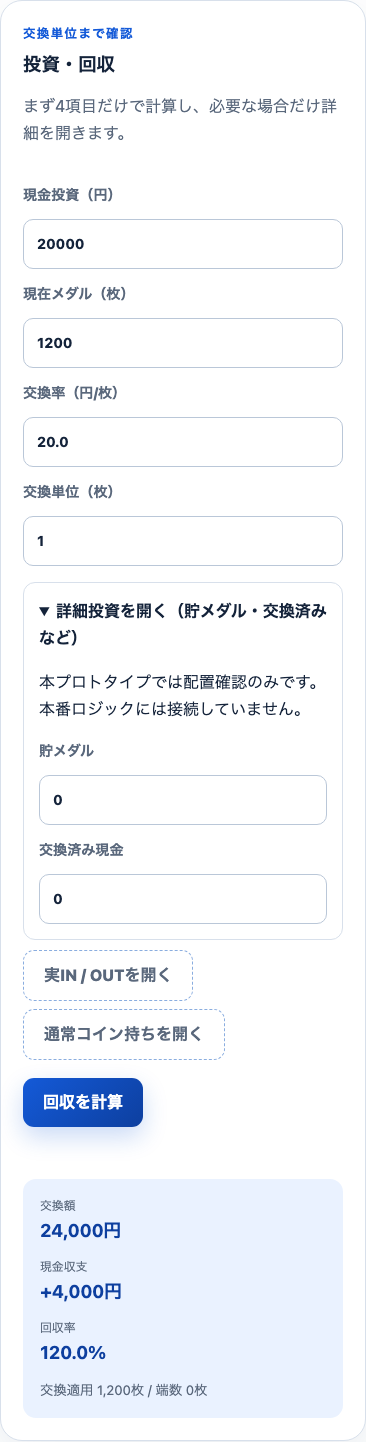
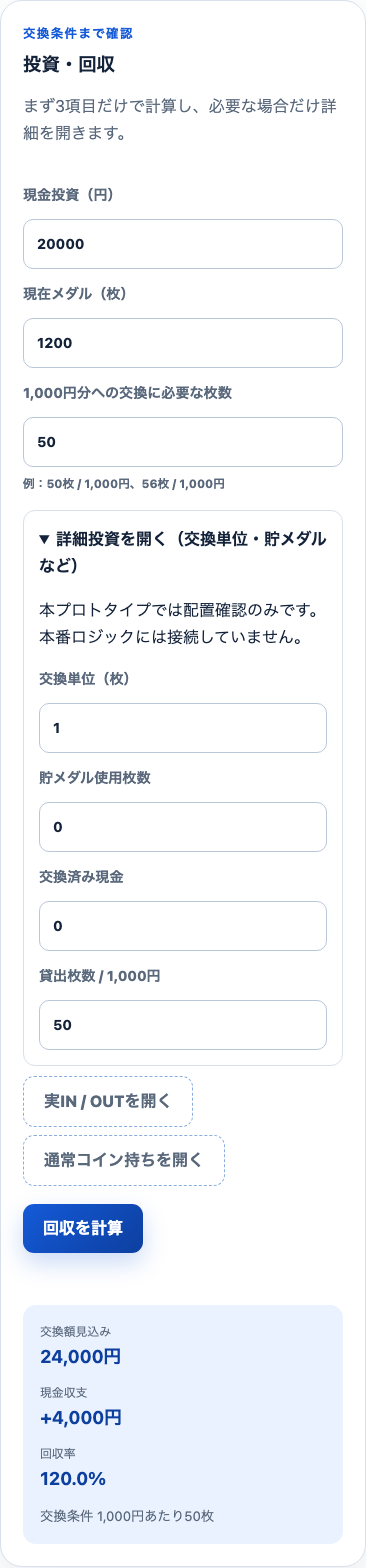
docs: align slot analysis input units and domain metadata

diff --git a/prototypes/slot-analysis-v2/index.html b/prototypes/slot-analysis-v2/index.html
@@ -165,14 +165,14 @@
         </section>
 
         <section class="detail-panel" id="investment-panel" hidden aria-labelledby="investment-title">
-          <div class="detail-copy"><p class="section-kicker">交換単位まで確認</p><h3 id="investment-title" tabindex="-1">投資・回収</h3><p>まず4項目だけで計算し、必要な場合だけ詳細を開きます。</p></div>
+          <div class="detail-copy"><p class="section-kicker">交換条件まで確認</p><h3 id="investment-title" tabindex="-1">投資・回収</h3><p>まず3項目だけで計算し、必要な場合だけ詳細を開きます。</p></div>
           <form id="investment-form" class="detail-form">
-            <div class="compact-grid"><label for="cash-invested">現金投資（円）<input id="cash-invested" inputmode="numeric" value="20000" /></label><label for="current-medals">現在メダル（枚）<input id="current-medals" inputmode="numeric" value="1200" /></label><label for="exchange-rate">交換率（円/枚）<input id="exchange-rate" inputmode="decimal" value="20.0" /></label><label for="exchange-unit">交換単位（枚）<input id="exchange-unit" inputmode="numeric" value="1" /></label></div>
-            <details class="advanced-inputs"><summary>詳細投資を開く（貯メダル・交換済みなど）</summary><p>本プロトタイプでは配置確認のみです。本番ロジックには接続していません。</p><div class="compact-grid"><label>貯メダル<input inputmode="numeric" value="0" /></label><label>交換済み現金<input inputmode="numeric" value="0" /></label></div></details>
+            <div class="compact-grid"><label for="cash-invested">現金投資（円）<input id="cash-invested" inputmode="numeric" value="20000" /></label><label for="current-medals">現在メダル（枚）<input id="current-medals" inputmode="numeric" value="1200" /></label><label for="exchange-medals-per-1000-yen">1,000円分への交換に必要な枚数<input id="exchange-medals-per-1000-yen" inputmode="decimal" value="50" /><small>例：50枚 / 1,000円、56枚 / 1,000円</small></label></div>
+            <details class="advanced-inputs"><summary>詳細投資を開く（交換単位・貯メダルなど）</summary><p>本プロトタイプでは配置確認のみです。本番ロジックには接続していません。</p><div class="compact-grid"><label>交換単位（枚）<input inputmode="numeric" value="1" /></label><label>貯メダル使用枚数<input inputmode="numeric" value="0" /></label><label>交換済み現金<input inputmode="numeric" value="0" /></label><label>貸出枚数 / 1,000円<input inputmode="decimal" value="50" /></label></div></details>
             <div class="legacy-routes" aria-label="既存の詳細計算"><button class="button text-button prototype-only" type="button">実IN / OUTを開く</button><button class="button text-button prototype-only" type="button">通常コイン持ちを開く</button></div>
             <button class="button primary" type="submit">回収を計算</button><p class="inline-error" id="investment-error"></p>
           </form>
-          <div class="detail-result" id="investment-result" hidden><span>交換額 <strong id="exchange-value">—</strong></span><span>現金収支 <strong id="cash-balance">—</strong></span><span>回収率 <strong id="recovery-rate">—</strong></span><small id="remainder-copy"></small></div>
+          <div class="detail-result" id="investment-result" hidden><span>交換額見込み <strong id="exchange-value">—</strong></span><span>現金収支 <strong id="cash-balance">—</strong></span><span>回収率 <strong id="recovery-rate">—</strong></span><small id="exchange-condition-copy"></small></div>
         </section>
       </section>
 

diff --git a/prototypes/slot-analysis-v2/prototype.js b/prototypes/slot-analysis-v2/prototype.js
@@ -379,33 +379,28 @@
     event.preventDefault();
     const cash = parseInteger($('#cash-invested').value);
     const medals = parseInteger($('#current-medals').value);
-    const rate = parseDecimal($('#exchange-rate').value);
-    const unit = parseInteger($('#exchange-unit').value);
+    const exchangeMedalsPer1000Yen = parseDecimal($('#exchange-medals-per-1000-yen').value);
     const error = $('#investment-error');
     if (
       cash === null ||
       cash < 0 ||
       medals === null ||
       medals < 0 ||
-      !rate ||
-      rate <= 0 ||
-      !unit ||
-      unit < 1
+      !exchangeMedalsPer1000Yen ||
+      exchangeMedalsPer1000Yen <= 0
     ) {
-      error.textContent = '現金、枚数、交換率、交換単位を確認してください。';
+      error.textContent = '現金、枚数、1,000円分への交換に必要な枚数を確認してください。';
       $('#investment-result').hidden = true;
       return;
     }
     error.textContent = '';
-    const applied = Math.floor(medals / unit) * unit;
-    const remainder = medals - applied;
-    const exchange = applied * rate;
+    const exchange = medals * (1000 / exchangeMedalsPer1000Yen);
     const balance = exchange - cash;
     $('#exchange-value').textContent = `${integer.format(exchange)}円`;
     $('#cash-balance').textContent = signed(balance, '円');
     $('#recovery-rate').textContent = cash === 0 ? '—' : `${((exchange / cash) * 100).toFixed(1)}%`;
-    $('#remainder-copy').textContent =
-      `交換適用 ${integer.format(applied)}枚 / 端数 ${integer.format(remainder)}枚`;
+    $('#exchange-condition-copy').textContent =
+      `交換条件 1,000円あたり${integer.format(exchangeMedalsPer1000Yen)}枚`;
     $('#investment-result').hidden = false;
   });
 })();

diff --git a/prototypes/slot-analysis-v2/prototype.spec.ts b/prototypes/slot-analysis-v2/prototype.spec.ts
@@ -120,6 +120,14 @@ test('目標逆算と区間基準の初期中立を固定', async ({ page }) => 
   await expect(page.locator('#segment-total-diff')).toHaveText('−470枚');
   await expect(page.locator('#segment-breakdown')).toContainText('103%基準：好調区間');
   await expect(page.locator('#segment-breakdown')).toContainText('103%基準：低調区間');
+
+  await page.getByRole('button', { name: '投資・回収' }).click();
+  await expect(page.locator('#investment-form > .compact-grid input')).toHaveCount(3);
+  await expect(page.getByLabel('1,000円分への交換に必要な枚数')).toHaveValue('50');
+  await page.getByRole('button', { name: '回収を計算' }).click();
+  await expect(page.locator('#exchange-value')).toHaveText('24,000円');
+  await expect(page.locator('#cash-balance')).toHaveText('+4,000円');
+  await expect(page.locator('#exchange-condition-copy')).toHaveText('交換条件 1,000円あたり50枚');
 });
 
 test('構造HTMLと外部依存を検査', async ({ page }) => {

diff --git a/docs/slot-analysis-v2/05_LOGIC_AND_TERMINOLOGY.md b/docs/slot-analysis-v2/05_LOGIC_AND_TERMINOLOGY.md
@@ -42,6 +42,38 @@ N/1,000G = +125枚
 - IN/OUT、基準差枚: 整数枚。
 - 内部値: 丸め前の分数を保持。
 
+### 公開結果metadata
+
+すべての成功結果は、UIが計算条件を再推定せずに「計算条件を見る」を表示できる共通metadataを持つ。
+
+```ts
+type SlotAnalysisFormulaId =
+  | 'quick_performance_rate'
+  | 'net_medals_per_1000_games'
+  | 'benchmark_expected_net_medals'
+  | 'benchmark_difference'
+  | 'payout_rate_sensitivity'
+  | 'target_total_net_medals'
+  | 'target_required_future_net_medals'
+  | 'target_required_future_payout_rate'
+  | 'cumulative_point_difference'
+  | 'segment_performance_rate'
+  | 'segment_benchmark_contribution'
+  | 'aggregate_performance_rate'
+  | 'maximum_endpoint_drawdown'
+  | 'maximum_recovery_after_drawdown';
+
+type SlotAnalysisResultMetadata = {
+  calculationVersion: '2.0.0';
+  formulaIds: readonly SlotAnalysisFormulaId[];
+  assumptionCodes: readonly SlotAnalysisAssumptionCode[];
+  roundingCodes: readonly SlotAnalysisRoundingCode[];
+  warningCodes: readonly SlotAnalysisWarningCode[];
+};
+```
+
+code値は英語の安定識別子だけとし、日本語文言はUI adapterで解決する。配列は結果ごとに必要な項目だけを含み、結果本体とともに再帰的にimmutableにする。
+
 ## 基準比較
 
 基準 `B` の期待差枚:
@@ -171,15 +203,18 @@ n_i = N_i − N_(i−1)
 ## 投資・回収
 
 ```text
-理論交換額 = 交換対象枚数 × 交換率（円/枚）
+内部換算値（円/枚） = 1,000 ÷ 1,000円分への交換に必要な枚数
+理論交換額 = 交換対象枚数 × 内部換算値
 交換単位適用枚数 = floor(対象枚数 ÷ 単位枚数) × 単位枚数
-交換額 = 単位適用枚数 × 交換率
+交換額 = 単位適用枚数 × 内部換算値
 端数 = 対象枚数 − 単位適用枚数
 収支 = 交換額 + 交換済現金 − 現金投資
 現金回収率 = 現金回収 ÷ 現金投資 × 100
 ```
 
-貯メダル価値を含める「総回収率」と、現金だけの「現金回収率」を分ける。交換率の入力単位を円/枚に固定し、枚/1000円表記は補助変換する。
+基本入力は現金投資、現在メダル、`1,000円分への交換に必要な枚数`の3項目とする。入力例は等価なら`50枚 / 1,000円`、いわゆる5.6枚交換なら`56枚 / 1,000円`。`円/枚`はdomain内部の有理数換算にだけ使い、UIの主入力単位にはしない。
+
+交換単位、貯メダル使用枚数、交換済み円、貸出枚数/1,000円、今回のG/差枚は詳細入力へ置く。貯メダル価値を含める「総回収率」と、現金だけの「現金回収率」を分ける。
 
 ## 用語規約
 

diff --git a/docs/slot-analysis-v2/07_INPUT_OUTPUT_SPEC.md b/docs/slot-analysis-v2/07_INPUT_OUTPUT_SPEC.md
@@ -92,16 +92,34 @@ type BenchmarkRow = {
 
 ### 簡易
 
-| 項目       | 型/単位       | 必須 |
-| ---------- | ------------- | ---- |
-| 現金投資   | 0以上の整数円 | 必須 |
-| 現在メダル | 0以上の整数枚 | 必須 |
-| 交換率     | 正数 円/枚    | 必須 |
-| 交換単位   | 1以上の整数枚 | 必須 |
+| 項目                          | 型/単位         | 必須 | 例      |
+| ----------------------------- | --------------- | ---- | ------- |
+| 現金投資                      | 0以上の整数円   | 必須 | 20000   |
+| 現在メダル                    | 0以上の整数枚   | 必須 | 1200    |
+| 1,000円分への交換に必要な枚数 | 正数 枚/1,000円 | 必須 | 50 / 56 |
 
 ### 詳細（段階開示）
 
-貯メダル、交換済み円、貸出率、今回のG/差枚。初期画面では表示しない。簡易結果は交換額、現金収支、現金回収率、端数。詳細結果は貯メダル価値と総回収率を分離。
+交換単位、貯メダル使用枚数、交換済み円、貸出枚数/1,000円、今回のG/差枚。初期画面では表示しない。簡易結果は交換額見込み、現金収支、現金回収率。詳細結果は端数、貯メダル価値と総回収率を分離する。`円/枚`は`1000 / exchangeMedalsPer1000Yen`としてdomain内部で有理数換算し、主入力や主要ラベルには使わない。
+
+## 成功結果の共通metadata
+
+すべてのv2成功結果は次の共通契約を持つ。
+
+```ts
+type SlotAnalysisResultMetadata = {
+  calculationVersion: '2.0.0';
+  formulaIds: readonly SlotAnalysisFormulaId[];
+  assumptionCodes: readonly SlotAnalysisAssumptionCode[];
+  roundingCodes: readonly SlotAnalysisRoundingCode[];
+  warningCodes: readonly SlotAnalysisWarningCode[];
+};
+```
+
+- `formulaIds`は実行された式だけを列挙する。
+- code配列はUI文言ではなく安定した英語識別子を返す。
+- UIはmetadataをview modelへ変換し、「計算条件を見る」を表示する。表示値から前提や丸めを推測しない。
+- metadataを含む成功結果全体を再帰的にimmutableにする。
 
 ## 表示フォーマット
 

diff --git a/docs/slot-analysis-v2/15_DECISION_LOG.md b/docs/slot-analysis-v2/15_DECISION_LOG.md
@@ -178,3 +178,15 @@
 
 - Decision: H1は`スロット出玉分析`、navは`出玉分析`、titleとdescriptionは名称仕様の固定文を使う。`機械割`はSEO/FAQ/補足だけ。
 - Reason: 検索意図へ応えながら、主結果を公称値や設定判別に見せない。
+
+### V2-D030 — Exchange input uses medals per 1,000 yen
+
+- Decision: 投資・回収の主入力は`1,000円分への交換に必要な枚数`とし、`50枚 / 1,000円`、`56枚 / 1,000円`の形式で扱う。`円/枚`はdomain内部で`1000 / 枚数`として有理数換算する。
+- Reason: 一般的なホール表示と入力者の手元情報に合わせ、変換ミスを避ける。
+- Rejected: `円/枚`を主入力にする、両単位を同格で入力させる。
+
+### V2-D031 — Every successful v2 result exposes metadata
+
+- Decision: すべての成功結果は`calculationVersion='2.0.0'`、`formulaIds`、`assumptionCodes`、`roundingCodes`、`warningCodes`を共通metadataとして返す。
+- Reason: UIの「計算条件を見る」をdomainの公開契約から生成し、rendererでの式や前提の再推定を防ぐ。
+- Rejected: 結果型ごとの任意文字列、表示値からのformula判定、domain内の日本語文言。

diff --git a/docs/slot-analysis-v2/17_CODEX_WORK_REPORT.md b/docs/slot-analysis-v2/17_CODEX_WORK_REPORT.md
@@ -175,3 +175,11 @@ The prototype was also operated through the app browser: quick calculation and t
 - Benchmark and segment defaults are neutral, exact-zero/sub-medal wording is locked, and target reverse copy is sign-aware.
 - Segment limits are UI 10, cumulative initial candidate 11 points including the start, and domain 100.
 - This revision remains docs/prototype-only. Production UI, URL, build, deployment, Cloudflare, advertising, and Analytics are unchanged.
+
+## L. Public-contract hardening revision
+
+- Investment/recovery now uses `1,000円分への交換に必要な枚数` as its primary exchange input; `円/枚` is an internal rational conversion only.
+- The basic investment prototype is reduced from four fields to cash invested, current medals, and medals per 1,000 yen.
+- Every successful v2 result is specified to expose immutable metadata with calculation version, formula, assumption, rounding, and warning codes.
+- UI calculation-condition copy must be derived from domain metadata through an adapter; the renderer must not infer formulas or exact relations from rounded display values.
+- Prototype Playwright remains 14 tests and now checks the corrected exchange input and representative result.

diff --git a/docs/slot-analysis-v2/08_UI_UX_SPEC.md b/docs/slot-analysis-v2/08_UI_UX_SPEC.md
@@ -62,6 +62,19 @@
 - `上級者向け`ではなく目的語で説明する。
 - 区間の比較基準は初期選択なし。選択後だけ `103%基準：好調区間／低調区間` と寄与を示す。
 
+### 投資・回収
+
+- 基本入力は`現金投資`、`現在メダル`、`1,000円分への交換に必要な枚数`の3項目だけを表示する。
+- 交換条件の例は`50枚 / 1,000円`、`56枚 / 1,000円`とし、`円/枚`を主入力にしない。
+- 交換単位、貯メダル使用枚数、交換済み円、貸出枚数/1,000円、今回のG/差枚はdetails内へ置く。
+- 簡易結果は交換額見込み、現金収支、回収率を先に表示し、端数や内訳は詳細へ分離する。
+
+### 計算条件
+
+- `計算条件を見る`はdomain成功結果の`metadata`をUI adapterで日本語へ変換して表示する。
+- rendererは表示値から式、前提、丸め、warningを再計算・推測しない。
+- domain codeを日本語表示へ対応付ける表はUI層に閉じ、未知codeは安全な汎用説明として扱う。
+
 ### スラログCTA
 
 - 見出し: `遊技記録を続けて残すならスラログ`

diff --git a/docs/slot-analysis-v2/09_WIREFRAMES.md b/docs/slot-analysis-v2/09_WIREFRAMES.md
@@ -158,14 +158,14 @@
 │ 投資・回収を計算            │
 │ 現金投資 [20,000] 円        │
 │ 現在枚数 [1,200] 枚         │
-│ 交換率   [20.0] 円/枚       │
-│ 交換単位 [1] 枚             │
+│ 1,000円分への交換枚数       │
+│          [50] 枚 / 1,000円  │
 │ [       回収を計算       ]  │
-│ ▼ 詳細入力                  │
+│ ▼ 詳細入力（交換単位など）   │
 ├────────────────────────────┤
 │ 交換額 24,000円             │
 │ 現金収支 +4,000円           │
-│ 回収率 120.0% / 端数0枚     │
+│ 回収率 120.0%               │
 └────────────────────────────┘
 ```
 
